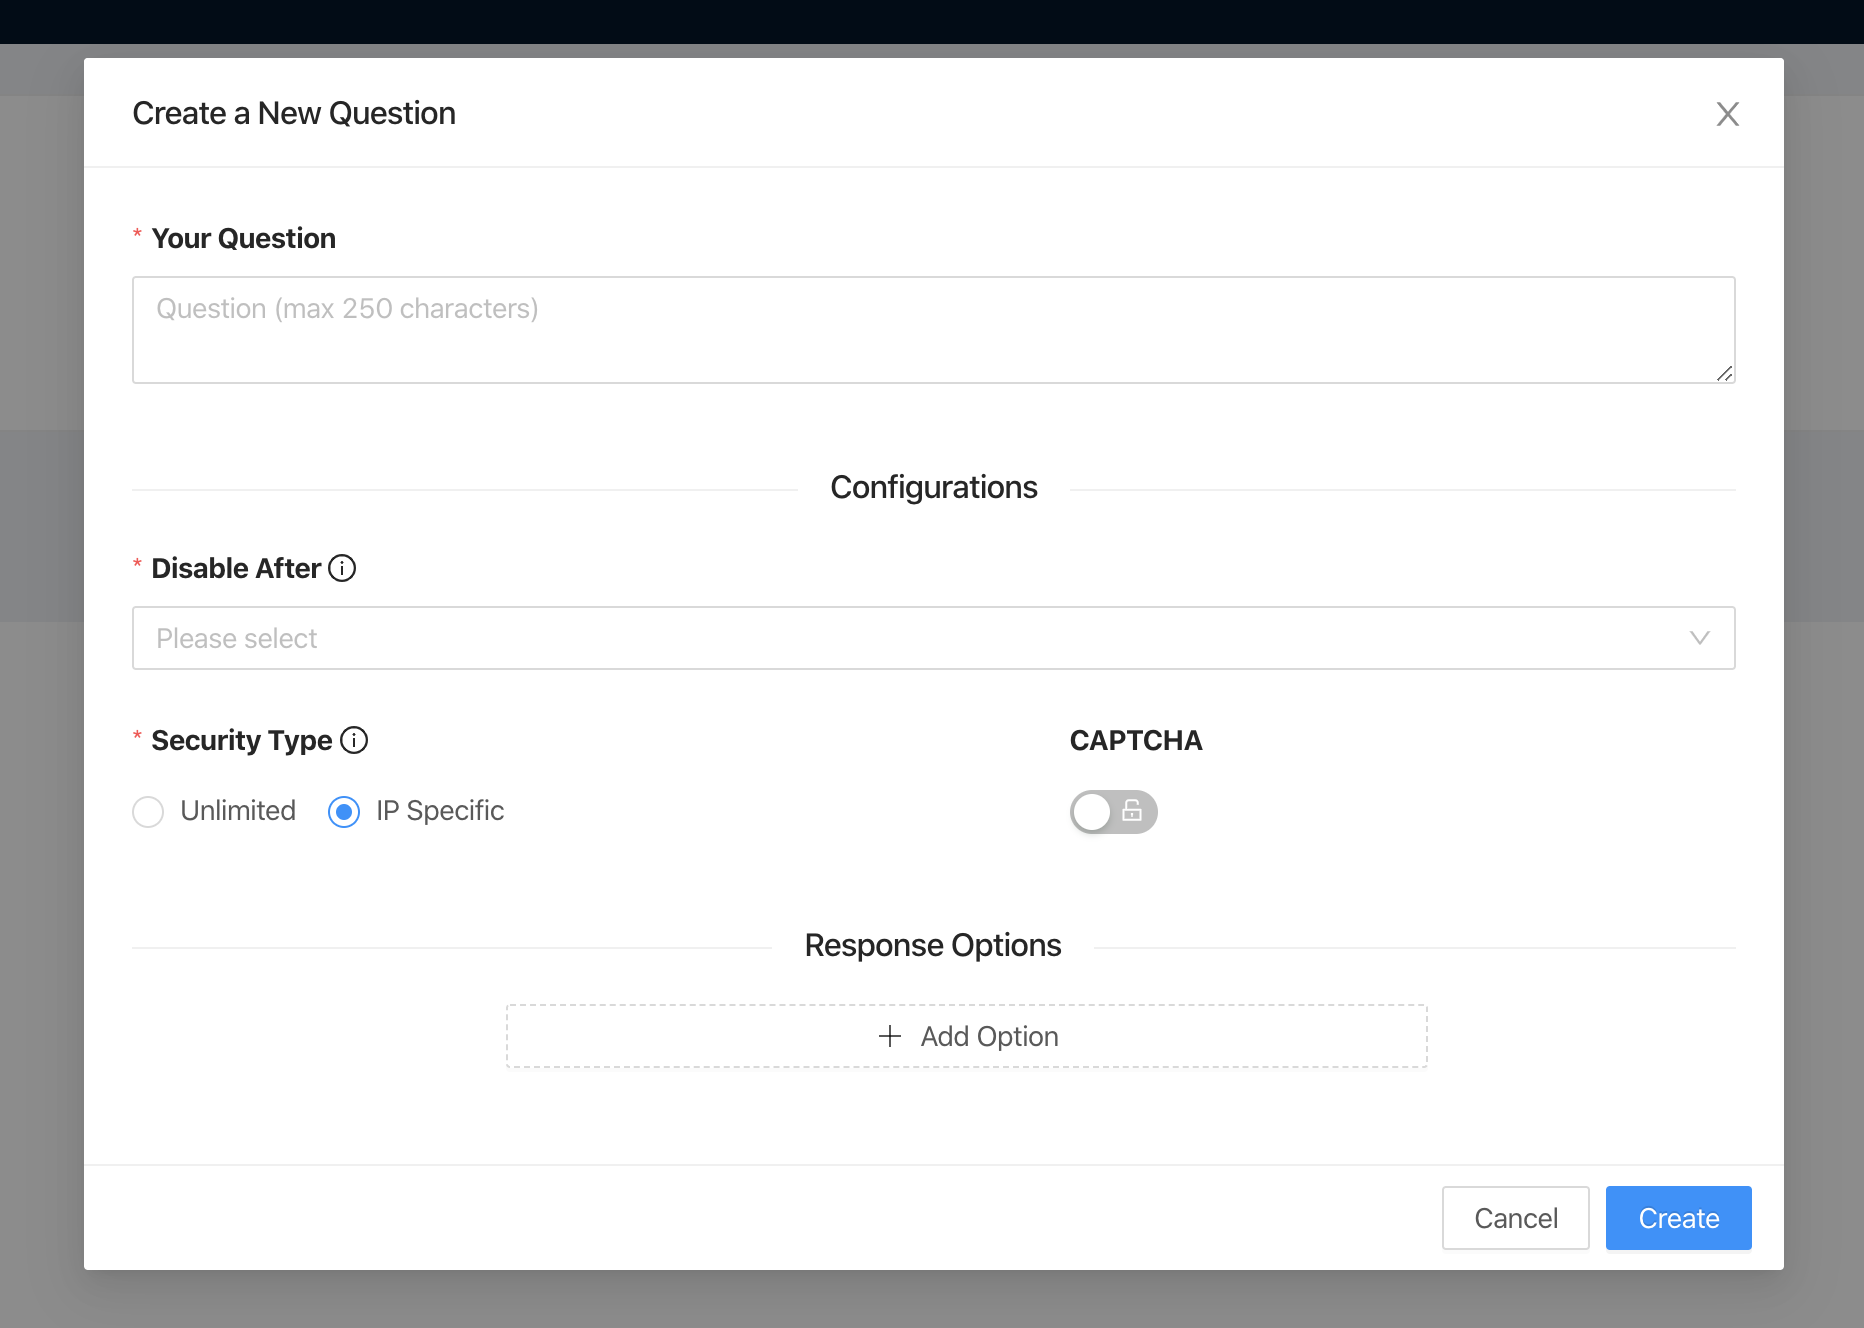
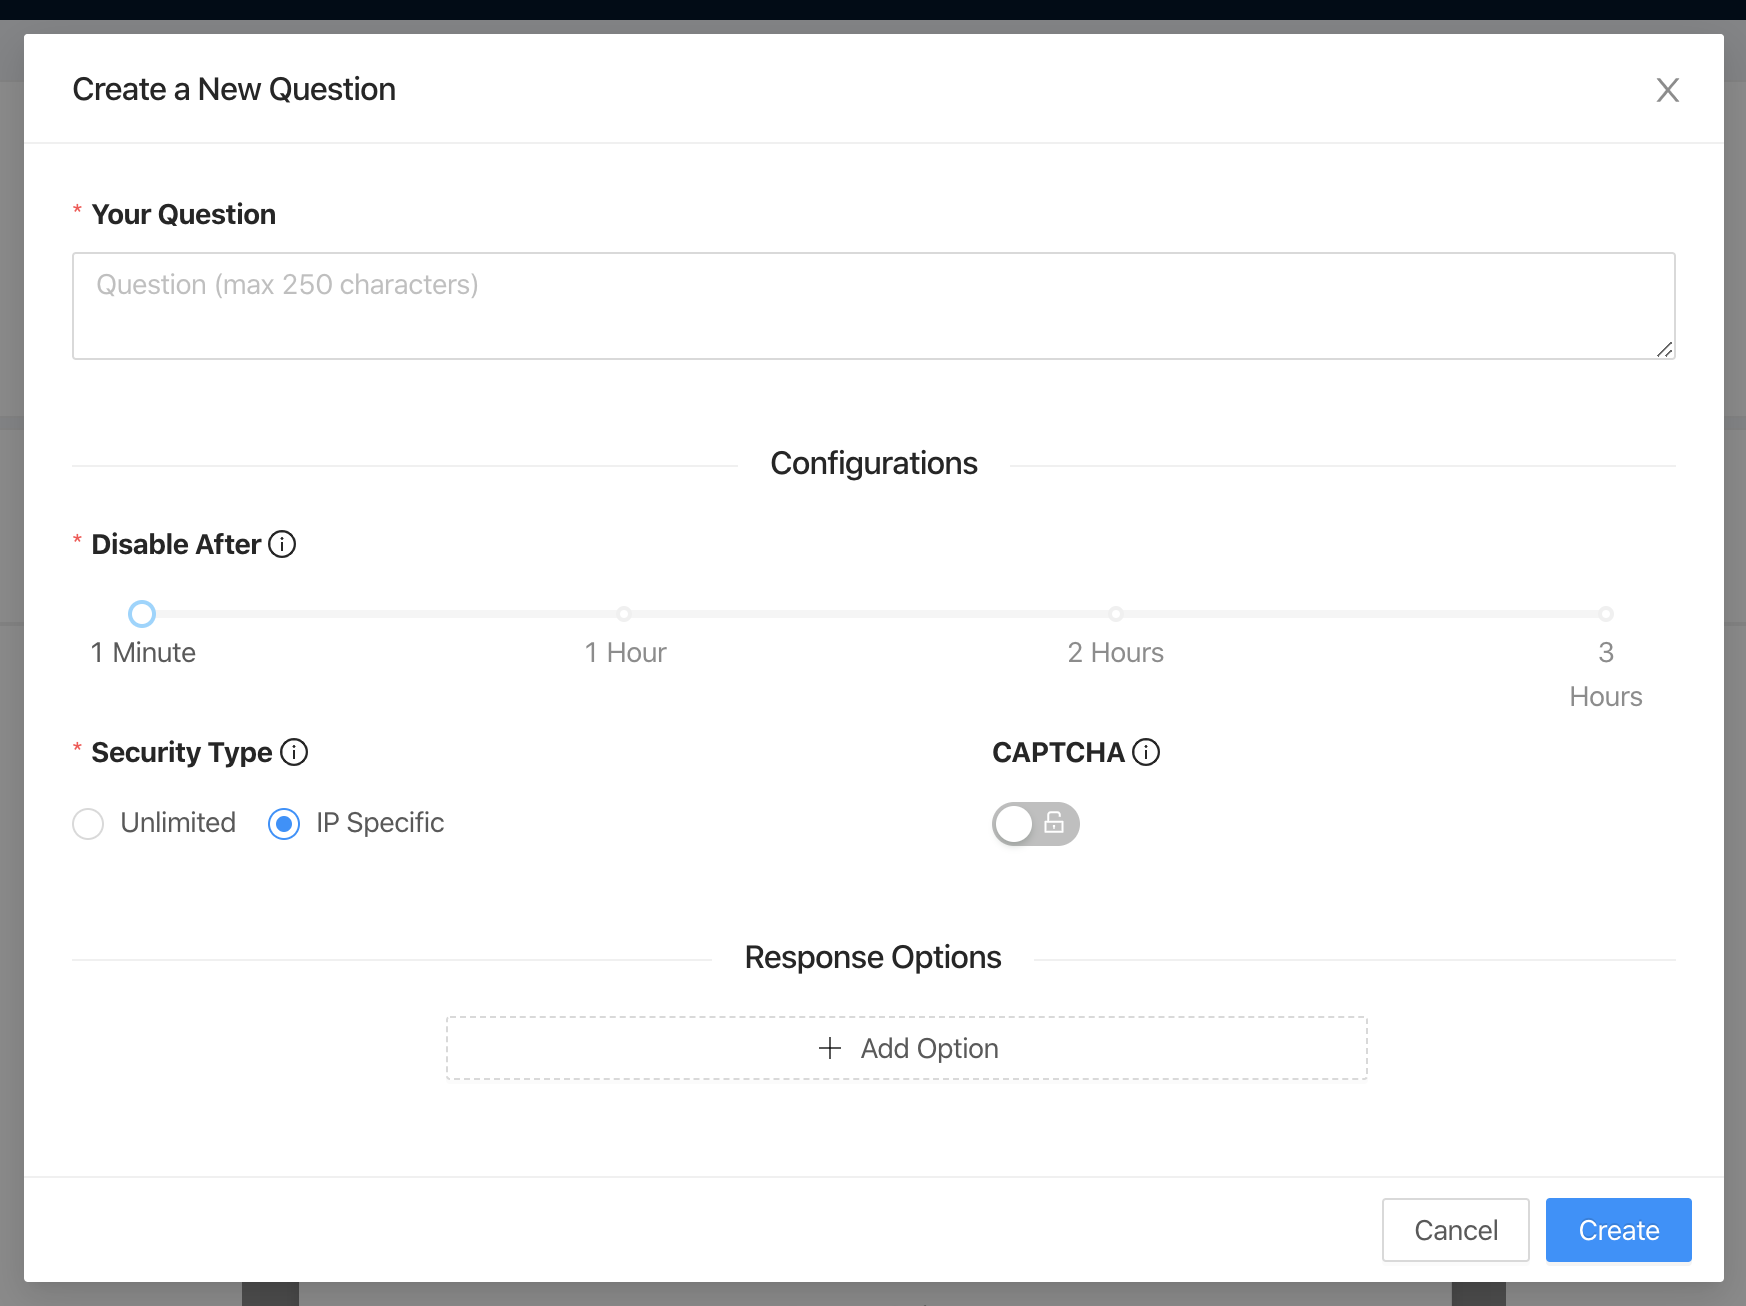
Change disable after menu

diff --git a/src/components/questionForm/QuestionForm.js b/src/components/questionForm/QuestionForm.js
@@ -5,11 +5,11 @@ import {
   Row,
   Col,
   Button,
-  Cascader,
   Modal,
   Form,
   Input,
   Radio,
+  Slider,
   Switch,
 } from "antd";
 import {
@@ -142,35 +142,6 @@ class QuestionForm extends React.Component {
 
   // Expiration date selection menu
   expirationSelectMenu = () => {
-    const expirationOptions = () => {
-      return [
-        {
-          value: 1,
-          label: "1 minute",
-        },
-        {
-          value: 5,
-          label: "5 minutes",
-        },
-        {
-          value: 10,
-          label: "10 minutes",
-        },
-        {
-          value: 30,
-          label: "30 minutes",
-        },
-        {
-          value: 60,
-          label: "1 hour",
-        },
-        {
-          value: 180,
-          label: "3 hours"
-        }
-      ];
-    };
-
     const EXP_TOOLTIP_MSG =
       "After this time period, responses will no longer be accepted.";
 
@@ -195,7 +166,17 @@ class QuestionForm extends React.Component {
               },
             ]}
           >
-            <Cascader options={expirationOptions()} />
+            <Slider
+              marks={{
+                1: "1 Minute",
+                60: "1 Hour",
+                120: "2 Hours",
+                180: "3 Hours",
+              }}
+              min={1}
+              max={180}
+              style={{ marginLeft: "35px", marginRight: "35px" }}
+            />
           </Form.Item>
         </Col>
       </Row>
@@ -277,13 +258,13 @@ class QuestionForm extends React.Component {
             </span>
           }
         >
-            <Switch
-              onChange={onChange}
-              checkedChildren={<LockOutlined />}
-              unCheckedChildren={<UnlockOutlined />}
-              checked={this.state.recaptcha}
-              disabled={this.state.re_disabled}
-            />
+          <Switch
+            onChange={onChange}
+            checkedChildren={<LockOutlined />}
+            unCheckedChildren={<UnlockOutlined />}
+            checked={this.state.recaptcha}
+            disabled={this.state.re_disabled}
+          />
         </Form.Item>
       </Col>
     );
@@ -315,10 +296,9 @@ class QuestionForm extends React.Component {
     };
 
     const onCreate = (values) => {
-      // This is required because the security type automatically switches 
+      // This is required because the security type automatically switches
       // the captcha requirement and that change doesn't propagate
       values["recaptcha"] = this.state.recaptcha;
-
       const requestOptions = {
         method: "POST",
         headers: {
@@ -327,7 +307,7 @@ class QuestionForm extends React.Component {
         body: JSON.stringify({
           question: values["question"],
           options: values["options"],
-          disableTime: values["disableTime"],
+          disableTime: [values["disableTime"]],
           securityType: values["securityType"],
           recaptcha: values["recaptcha"],
         }),

diff --git a/src/utils/api/Api.js b/src/utils/api/Api.js
@@ -1,5 +1,3 @@
-const CONFIG = require("../../config.json");
-
 export const sendDataWithOptions = async (path, requestOptions) => {
   const response = await fetch(process.env.REACT_APP_SERVER_PROXY + path, requestOptions);
   const data = await response.json();
